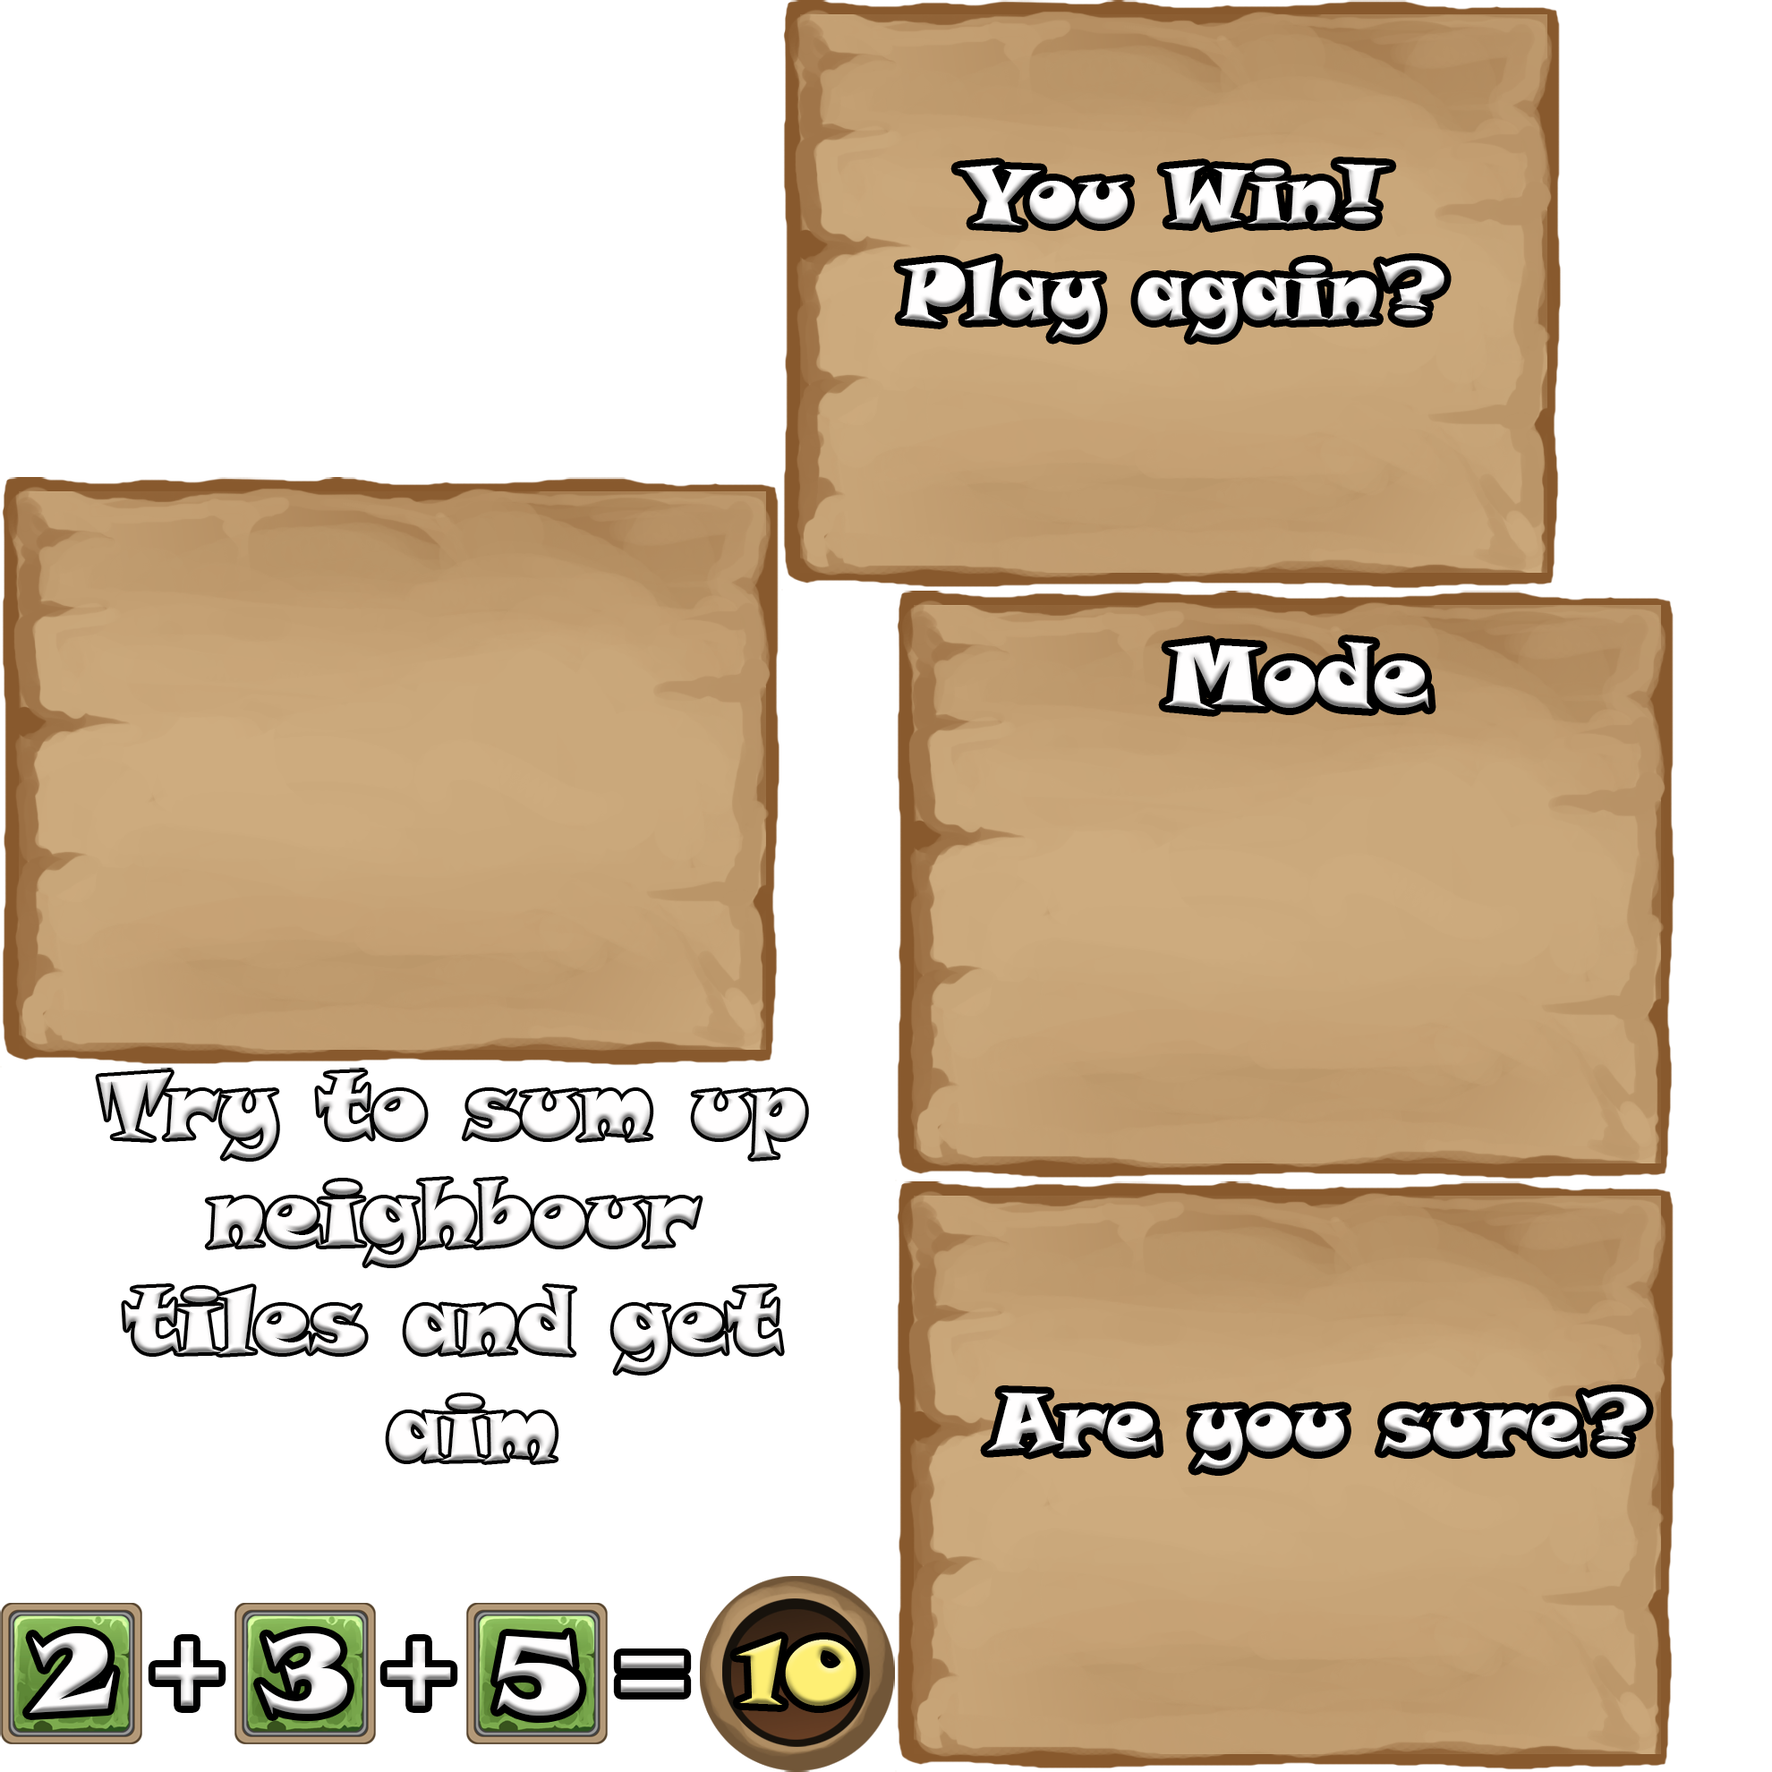
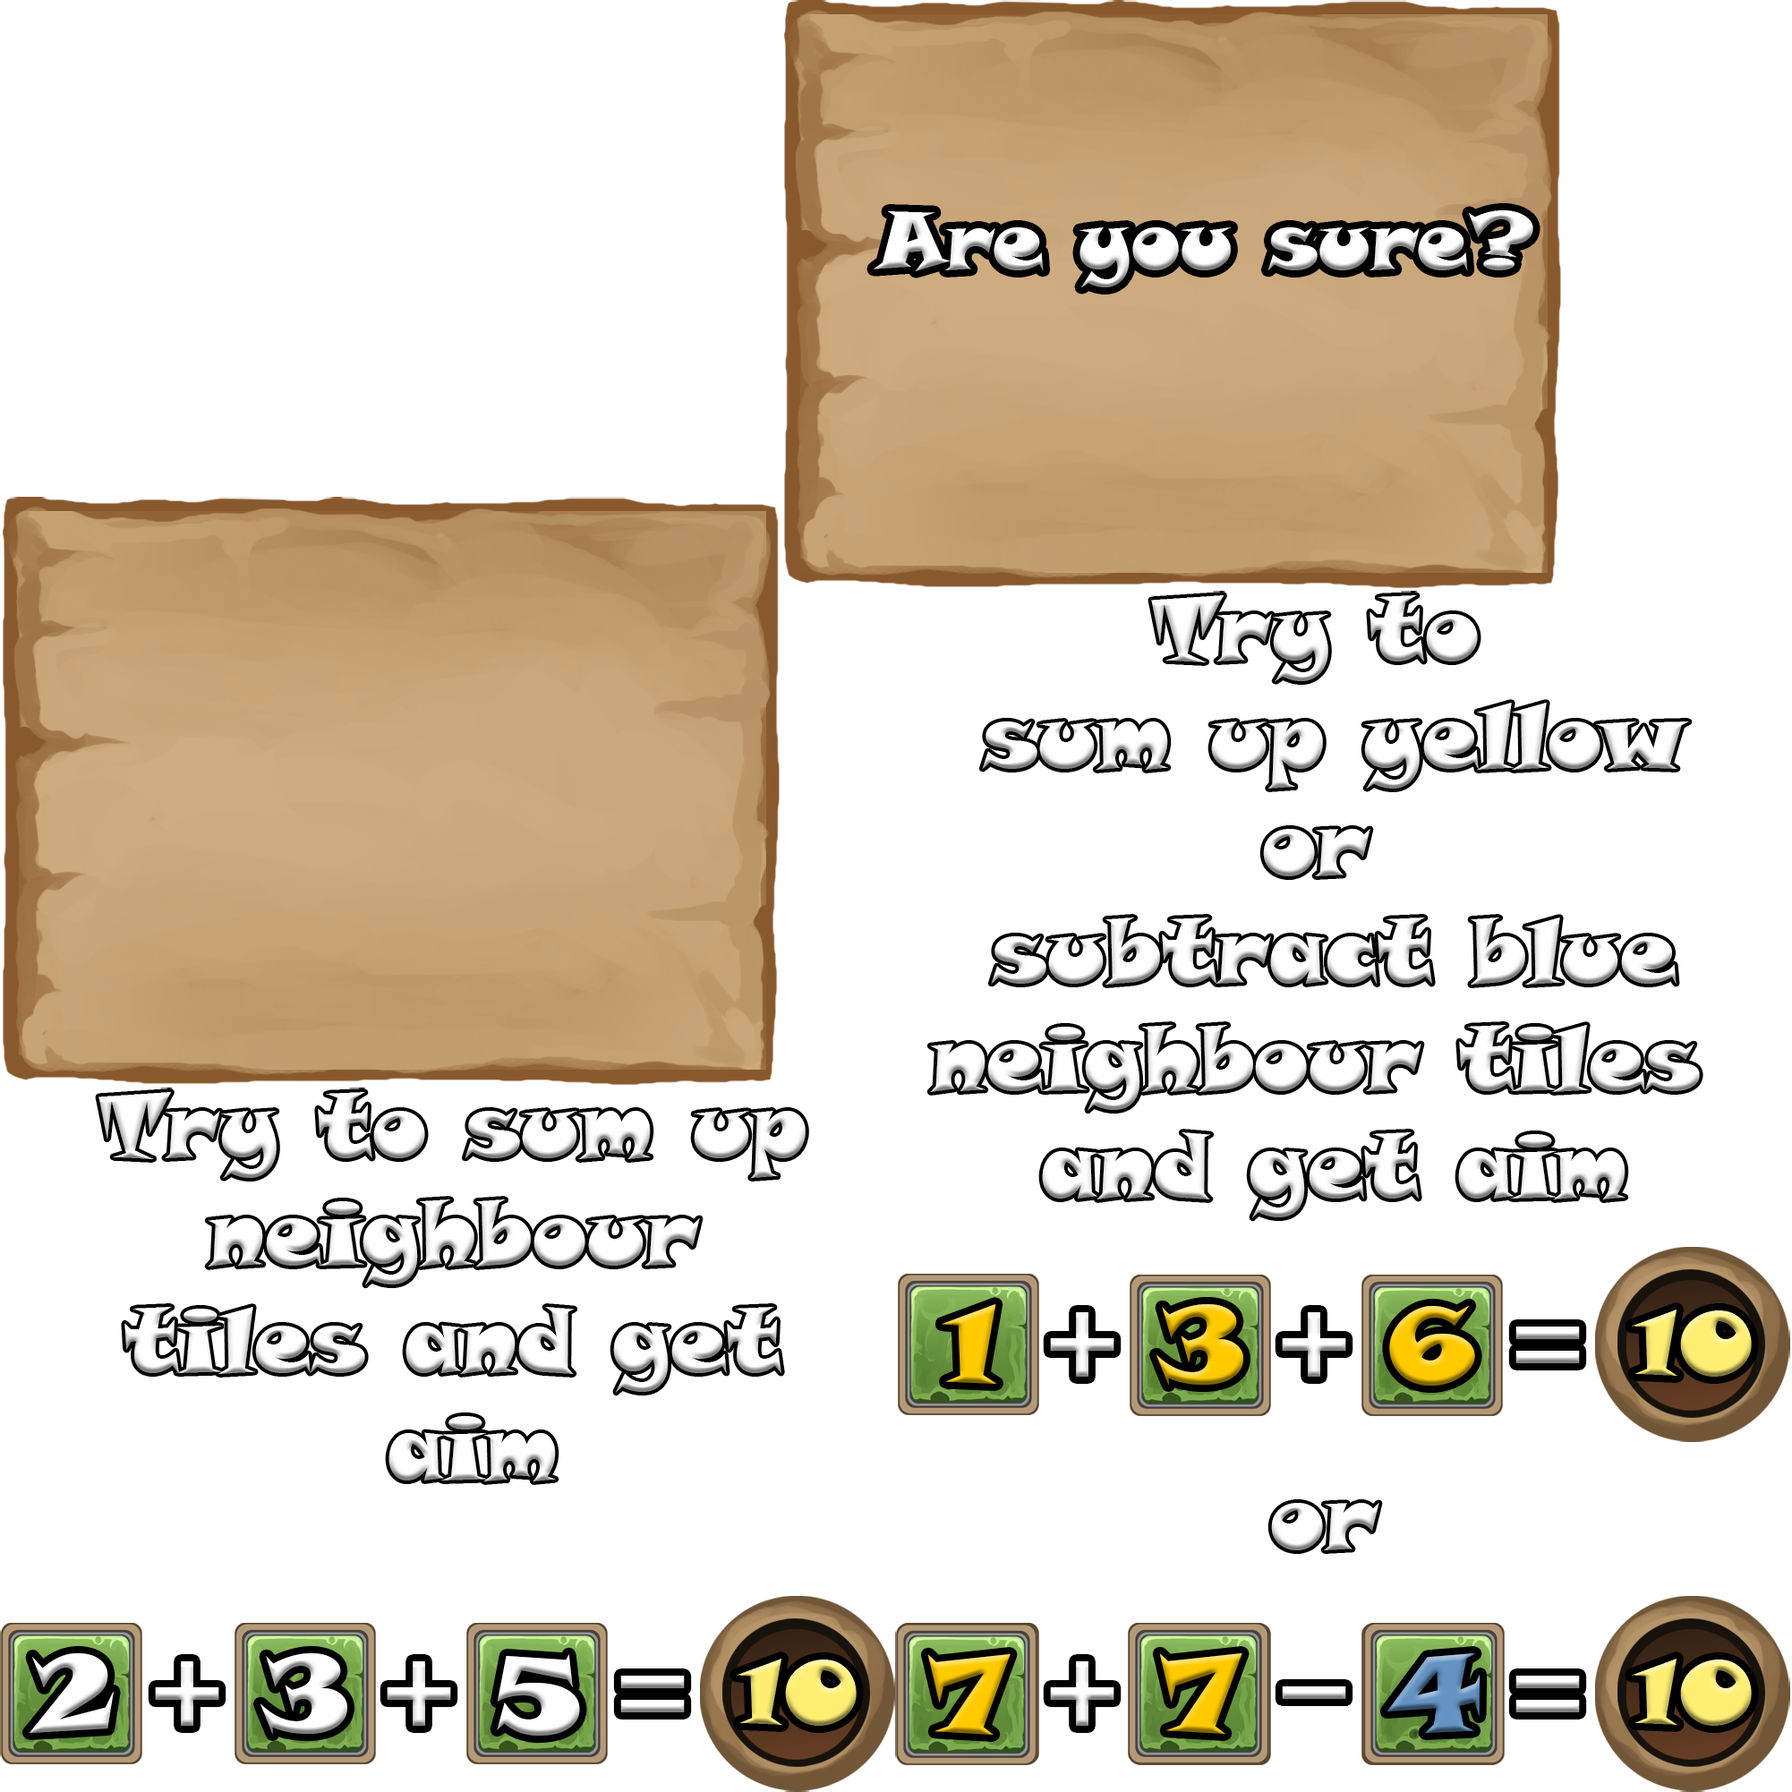
Added tutorial window for both negative and positive modes. Now we show tutorial after each change of game mode.

diff --git a/core/src/com/games440/summarium/GameView.java b/core/src/com/games440/summarium/GameView.java
@@ -46,8 +46,8 @@ public class GameView extends ApplicationAdapter implements InputProcessor, Appl
 		DaggerContainer.getDaggerBinder().inject(this);
 		Gdx.input.setInputProcessor(this);
 		Gdx.input.setCatchBackKey(true);
-		PlayerPreferencesContainer.Initialize(Gdx.app.getPreferences("SummariumPlayerPreferences"));
-		_controller = new GameController(PlayerPreferencesContainer.getPlayerPreferences());
+		//PlayerPreferencesContainer.Initialize(Gdx.app.getPreferences("SummariumPlayerPreferences"));
+		_controller = new GameController(/*PlayerPreferencesContainer.getPlayerPreferences()*/);
 		SoundManager.InitSoundManager();
 		_cellClearEffect = new Particle();
 		_cellClearEffect.load(Gdx.files.internal("ParticleEffects/CellClearEffect/Particle Park Glass.p"),Gdx.files.internal("ParticleEffects/CellClearEffect/"));
@@ -89,16 +89,16 @@ public class GameView extends ApplicationAdapter implements InputProcessor, Appl
 					PlayerPreferencesContainer.getPlayerPreferences().putBoolean(GameConfig.isFirstLaunchEverKey,false);
 					_uiView.showTutorial();
 				}*/
-				if(PlayerPreferencesContainer.isTutorialHasToBeShown())
+				if(_gameModel.isShowTutorial())
 				{
 					_uiView.showTutorial();
-					PlayerPreferencesContainer.disableTutorial();
+					_controller.disableTutorial();
 				}
 			}
 		});
-		_eventManager.Subscribe(EventType.AimChanged,new EventListener(){
+		_eventManager.Subscribe(EventType.GameModeChanged,new GameModeChangeListener(){
 			@Override
-			public void HandleEvent(int param) {
+			public void HandleEvent(GameMode gameMode, int newAim, boolean isModeUpdated, boolean isAimUpdated) {
 				_aimImage.remove();
 				_aimImage = ImageSourceConfig.getImageSourceConfig().getAimNumber(_gameModel.GetAim());
 				_aimImage.setPosition((gameStage.getWidth()-_aimImage.getDrawable().getMinWidth()*_aimImage.getScaleX())/2,_topBar.getY()+(_topBar.getDrawable().getMinHeight()-_aimImage.getDrawable().getMinHeight()*_aimImage.getScaleY())/2);
@@ -111,6 +111,12 @@ public class GameView extends ApplicationAdapter implements InputProcessor, Appl
 					}
 				});
 				gameStage.addActor(_aimImage);
+				if(_gameModel.isShowTutorial())
+				{
+					clearField();
+					_uiView.showTutorial();
+					_controller.disableTutorial();
+				}
 			}
 		});
 		_eventManager.Subscribe(EventType.ClearCell,new EventListener(){
@@ -203,6 +209,16 @@ public class GameView extends ApplicationAdapter implements InputProcessor, Appl
 		_uiView.SetMenuVisibility(true);
 	}
 
+	private void clearField() {
+		for(int i = 0; i< GameConfig.CELLS_IN_VERTICAL;i++) {
+			for (int j = 0; j < GameConfig.CELLS_IN_HORIZONTAL; j++) {
+				if(_gameFieldView[i][j]!=null)
+				{
+					_gameFieldView[i][j].removeCell();
+				}
+			}
+		}
+	}
 
 
 	@Override
@@ -233,7 +249,7 @@ public class GameView extends ApplicationAdapter implements InputProcessor, Appl
 			for(int j = 0; j < GameConfig.CELLS_IN_HORIZONTAL;j++)
 			{
 				if(_gameFieldView[i][j] == null) {
-					_gameFieldView[i][j] = new ViewCell(_gameModel.GetGameFieldModel()[i][j]);
+					_gameFieldView[i][j] = new ViewCell(_gameModel.GetGameFieldModel()[i][j],_gameModel.getGameMode());
 				}
 				if(_gameFieldView[i][j].isChanged()) {
 					_gameFieldView[i][j].Draw(gameStage,j,i,true,_gameModel.getGameMode());

diff --git a/core/src/com/games440/summarium/UIView.java b/core/src/com/games440/summarium/UIView.java
@@ -19,6 +19,7 @@ public class UIView {
     private UIDialog _confirmationPopup;
     private UIDialog _winDialog;
     private UIDialog _tutorialDialog;
+    private UIDialog _negativeTutorialDialog;
     private ImageButton _yesConfirmationPopupButton;
     private ImageButton _noConfirmationPopupButton;
     private ImageButton _yesWinDialogButton;
@@ -52,6 +53,7 @@ public class UIView {
         _confirmationPopup = new UIDialog("",_uiSkin,"window_confirmationPopup");
         _winDialog = new UIDialog("",_uiSkin,"window_winDialog");
         _tutorialDialog = new UIDialog("",_uiSkin,"window_tutorial");
+        _negativeTutorialDialog = new UIDialog("",_uiSkin,"window_tutorialNegative");
         _playButton = new ImageButton(_uiSkin,"button_play");
         _modeButton = new ImageButton(_uiSkin,"button_mode");
         _restartButton = new ImageButton(_uiSkin,"button_restart");
@@ -83,10 +85,17 @@ public class UIView {
                 startGame();
             }
         });
+        _negativeTutorialDialog.addListener(new ClickListener(){
+            @Override
+            public void clicked(InputEvent event, float x, float y) {
+                _negativeTutorialDialog.hide();
+                startGame();
+            }
+        });
         _playButton.addListener(new ClickListener(){
             @Override
             public void clicked(InputEvent event, float x, float y) {
-                if(PlayerPreferencesContainer.isTutorialHasToBeShown()) {
+                if(_gameModel.isShowTutorial()) {
                     _menuDialog.hide(null);
                 }else
                 {
@@ -192,6 +201,7 @@ public class UIView {
         _helpDialog.getBackground().setMinHeight(scale*_helpDialog.getBackground().getMinHeight());
         _helpDialog.getBackground().setMinWidth(scale*_helpDialog.getBackground().getMinWidth());
         _tutorialDialog.setPosition((GameConfig.SCREEN_WIDTH - _tutorialDialog.getBackground().getMinWidth()) / 2, (GameConfig.SCREEN_HEIGHT - _tutorialDialog.getBackground().getMinHeight()) / 2);
+        _negativeTutorialDialog.setPosition((GameConfig.SCREEN_WIDTH - _negativeTutorialDialog.getBackground().getMinWidth()) / 2, (GameConfig.SCREEN_HEIGHT - _negativeTutorialDialog.getBackground().getMinHeight()) / 2);
         InitUIView();
     }
 
@@ -257,7 +267,12 @@ public class UIView {
 
     public void showTutorial()
     {
-        _tutorialDialog.show(_gameStage,null);
+        if(_gameModel.getGameMode() == GameMode.PlusGameMode) {
+            _tutorialDialog.show(_gameStage, null);
+        }else
+        {
+            _negativeTutorialDialog.show(_gameStage,null);
+        }
     }
 
     private void InitUIView()

diff --git a/core/src/com/games440/summarium/GameModel.java b/core/src/com/games440/summarium/GameModel.java
@@ -14,7 +14,7 @@ public class GameModel implements IGameModelReadonly {
     private int _aimValue = 10;
     private GameMode _gameMode = GameMode.PlusGameMode;
     private boolean isWon = false;
-    private boolean showTutorial;
+    private boolean _showTutorial;
 
     @Override
     public int GetAim() {
@@ -31,7 +31,7 @@ public class GameModel implements IGameModelReadonly {
         if(_aimValue<=GameConfig.MAX_AIM&&_aimValue>=GameConfig.MIN_AIM)
         {
             _aimValue = newAim;
-            RestartModel();
+            //RestartModel();
         }
     }
 
@@ -40,7 +40,7 @@ public class GameModel implements IGameModelReadonly {
         _eventManager = eventManager;
         _stateManager = stateManager;
         _randomManager = randomManager;
-        showTutorial = true;
+        _showTutorial = true;
         _selectedCells = new LinkedList<ModelCell>();
         for(int i = 0; i<GameConfig.CELLS_IN_VERTICAL;i++)
         {
@@ -115,12 +115,12 @@ public class GameModel implements IGameModelReadonly {
     @Override
     public boolean isShowTutorial()
     {
-        return showTutorial;
+        return _showTutorial;
     }
 
     public void RestartModel()
     {
-        showTutorial = true;
+        _showTutorial = true;
         _selectedCells.clear();
         isWon = false;
         for(int i = 0; i<GameConfig.CELLS_IN_VERTICAL;i++)
@@ -132,7 +132,7 @@ public class GameModel implements IGameModelReadonly {
         }
         _stateManager.ChangeState(GameState.Idle);
         _eventManager.Dispatch(EventType.ModelChanged);
-        showTutorial = false;
+        _showTutorial = false;
     }
 
     private void CompressModel()
@@ -325,8 +325,12 @@ public class GameModel implements IGameModelReadonly {
     }
 
     public void setGameMode(GameMode gameMode) {
-        //showTutorial = true;
+        _showTutorial = true;
         _gameMode = gameMode;
-        RestartModel();
+        //RestartModel();
+    }
+
+    public void setShowTutorial(boolean showTutorial) {
+        _showTutorial = showTutorial;
     }
 }

diff --git a/core/src/com/games440/summarium/GameController.java b/core/src/com/games440/summarium/GameController.java
@@ -12,7 +12,7 @@ public class GameController{
     public GameModel _gameModel;
 
 
-    public GameController(Preferences playerPrefs)
+    public GameController()
     {
         DaggerContainer.getDaggerBinder().inject(this);
         _eventManager.Subscribe(EventType.Click,new EventListener(){
@@ -29,21 +29,26 @@ public class GameController{
                 /*if(!finalPlayerPrefs.getBoolean(GameConfig.isFirstLaunchEverKey,true)) {
                     _gameModel.RestartModel();
                 }*/
-                if(!PlayerPreferencesContainer.isTutorialHasToBeShown()) {
+                if(!_gameModel.isShowTutorial()) {
                     _gameModel.RestartModel();
                 }
             }
         });
-        _eventManager.Subscribe(EventType.AimChanged,new EventListener(){
+        /*_eventManager.Subscribe(EventType.AimChanged,new EventListener(){
             @Override
             public void HandleEvent(int param) {
                 _gameModel.setAim(param);
             }
-        });
+        });*/
         _eventManager.Subscribe(EventType.GameModeChanged,new GameModeChangeListener(){
             @Override
-            public void HandleEvent(GameMode gameMode) {
+            public void HandleEvent(GameMode gameMode, int newAim, boolean isModeUpdated, boolean isAimUpdated) {
                 _gameModel.setGameMode(gameMode);
+                _gameModel.setAim(newAim);
+                if(isModeUpdated||isAimUpdated||!_gameModel.isShowTutorial())
+                {
+                    _gameModel.RestartModel();
+                }
             }
         });
         _eventManager.Subscribe(EventType.GameStateChanged, new GameStateChangeListener(){
@@ -61,5 +66,9 @@ public class GameController{
         });
     }
 
+    public void disableTutorial()
+    {
+        _gameModel.setShowTutorial(false);
+    }
 
 }

diff --git a/core/src/com/games440/summarium/ViewCell.java b/core/src/com/games440/summarium/ViewCell.java
@@ -31,12 +31,16 @@ public class ViewCell{
     EventManager _eventManager;
 
 
-    public ViewCell(IModelCellReadonly modelCell) {
+    public ViewCell(IModelCellReadonly modelCell, GameMode mode) {
         this._modelCell = modelCell;
         ViewCellState state = _modelCell.GetState();
         int value = _modelCell.GetValue();
         DaggerContainer.getDaggerBinder().inject(this);
-        aimImage = ImageSourceConfig.getImageSourceConfig().getNumber(value);
+        if(mode == GameMode.PlusGameMode) {
+            aimImage = ImageSourceConfig.getImageSourceConfig().getNumber(value);
+        }else {
+            aimImage = ImageSourceConfig.getImageSourceConfig().getNegativeNumber(value);
+        }
         stateImage = ImageSourceConfig.getImageSourceConfig().getCellBackgroundByState(state,_modelCell.isCleared());
         border = ImageSourceConfig.getImageSourceConfig().getCellBorder();
         border.addListener(new ClickListener(){
@@ -163,9 +167,7 @@ public class ViewCell{
         {
             value = _modelCell.GetValue();
         }
-        aimImage.remove();
-        stateImage.remove();
-        border.remove();
+       removeCell();
         if(drawNumber)
         {
             if(mode == GameMode.PlusGameMode) {
@@ -217,5 +219,11 @@ public class ViewCell{
     {
         //return (modelY*(_borderHeight*border.getScaleY()+GameConfig.CELL_Y_PADDING)+GameConfig.TABLE_Y_OFFSET+_borderHeight/2f);
         return stateImage.getY()+_stateImageHeight/2;
+    }
+
+    public void removeCell() {
+        border.remove();
+        stateImage.remove();
+        aimImage.remove();
     }
 }

diff --git a/core/src/com/games440/summarium/ModeSelectWindow.java b/core/src/com/games440/summarium/ModeSelectWindow.java
@@ -63,13 +63,10 @@ public class ModeSelectWindow {
             @Override
             public void clicked(InputEvent event, float x, float y) {
                 _modeSelectDialog.hide(null);
-                if(_tempAim!=_currAim) {
+                if(_tempAim!=_currAim||_tempGameMode!=_currGameMode) {
                     _currAim = _tempAim;
-                    _eventManager.Dispatch(EventType.AimChanged, _currAim);
-                }else if(_tempGameMode!=_currGameMode)
-                {
                     _currGameMode = _tempGameMode;
-                    _eventManager.Dispatch(EventType.GameModeChanged,_currGameMode);
+                    _eventManager.Dispatch(EventType.GameModeChanged,_currGameMode,_currAim,_tempGameMode!=_currGameMode,_tempAim!=_currAim);
                 }
                 else if(_gameModel.isShowTutorial())
                 {

diff --git a/core/src/com/games440/summarium/EventManager.java b/core/src/com/games440/summarium/EventManager.java
@@ -42,10 +42,10 @@ public class EventManager {
         }
     }
 
-    public void Dispatch(EventType type,GameMode mode)
+    public void Dispatch(EventType type,GameMode mode, int newAim, boolean isModeUpdated, boolean isAimUpdated)
     {
         for (IEventListener listener : _listeners.get(type)) {
-            ((GameModeChangeListener)listener).HandleEvent(mode);
+            ((GameModeChangeListener)listener).HandleEvent(mode,newAim,isModeUpdated,isAimUpdated);
         }
     }
 

diff --git a/core/src/com/games440/summarium/PlayerPreferencesContainer.java b/core/src/com/games440/summarium/PlayerPreferencesContainer.java
@@ -8,7 +8,7 @@ public class PlayerPreferencesContainer {
     private static boolean isInitialized = false;
     private static boolean isTutorialHasToBeShown = true;
 
-    public static Preferences getPlayerPreferences()
+    /*public static Preferences getPlayerPreferences()
     {
         if(isInitialized)
         {
@@ -31,5 +31,5 @@ public class PlayerPreferencesContainer {
     {
         _playerPrefs = playerPrefs;
         isInitialized = true;
-    }
+    }*/
 }

diff --git a/core/src/com/games440/summarium/UIDialog.java b/core/src/com/games440/summarium/UIDialog.java
@@ -18,6 +18,11 @@ public class UIDialog extends Dialog {
             Color color = this.getColor();
             color.a = 0;
             this.setColor(color);
+        }else
+        {
+            Color color = this.getColor();
+            color.a = 1;
+            this.setColor(color);
         }
         this.setVisible(true);
         return super.show(stage, action);

diff --git a/core/src/com/games440/summarium/GameModeChangeListener.java b/core/src/com/games440/summarium/GameModeChangeListener.java
@@ -11,7 +11,7 @@ public class GameModeChangeListener implements IEventListener {
 
     }
 
-    public void HandleEvent(GameMode gameMode)
+    public void HandleEvent(GameMode gameMode, int newAim, boolean isModeUpdated, boolean isAimUpdated)
     {
 
     }

diff --git a/core/src/com/games440/summarium/EventType.java b/core/src/com/games440/summarium/EventType.java
@@ -4,7 +4,7 @@ public enum EventType {
     Click,
     ModelChanged,
     RestartNeeded,
-    AimChanged,
+    //AimChanged,
     GameStateChanged,
     ClearCell,
     MotionEnded,
